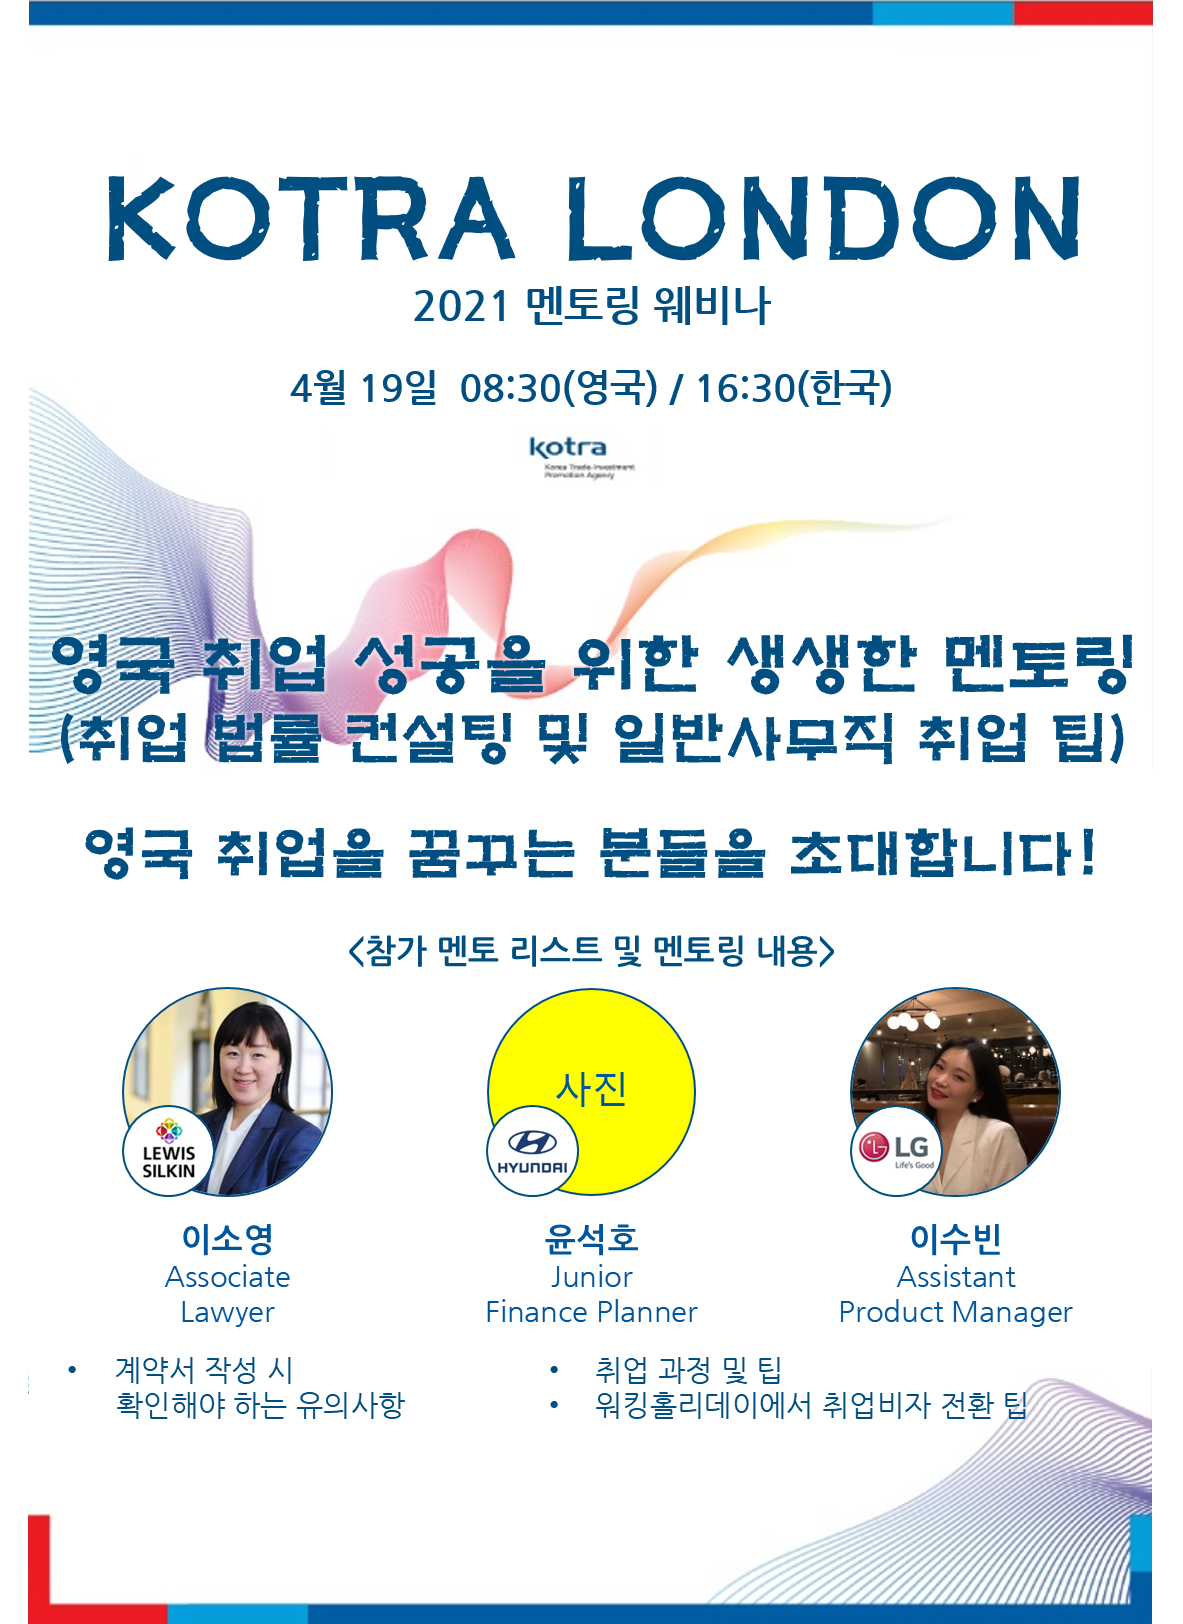
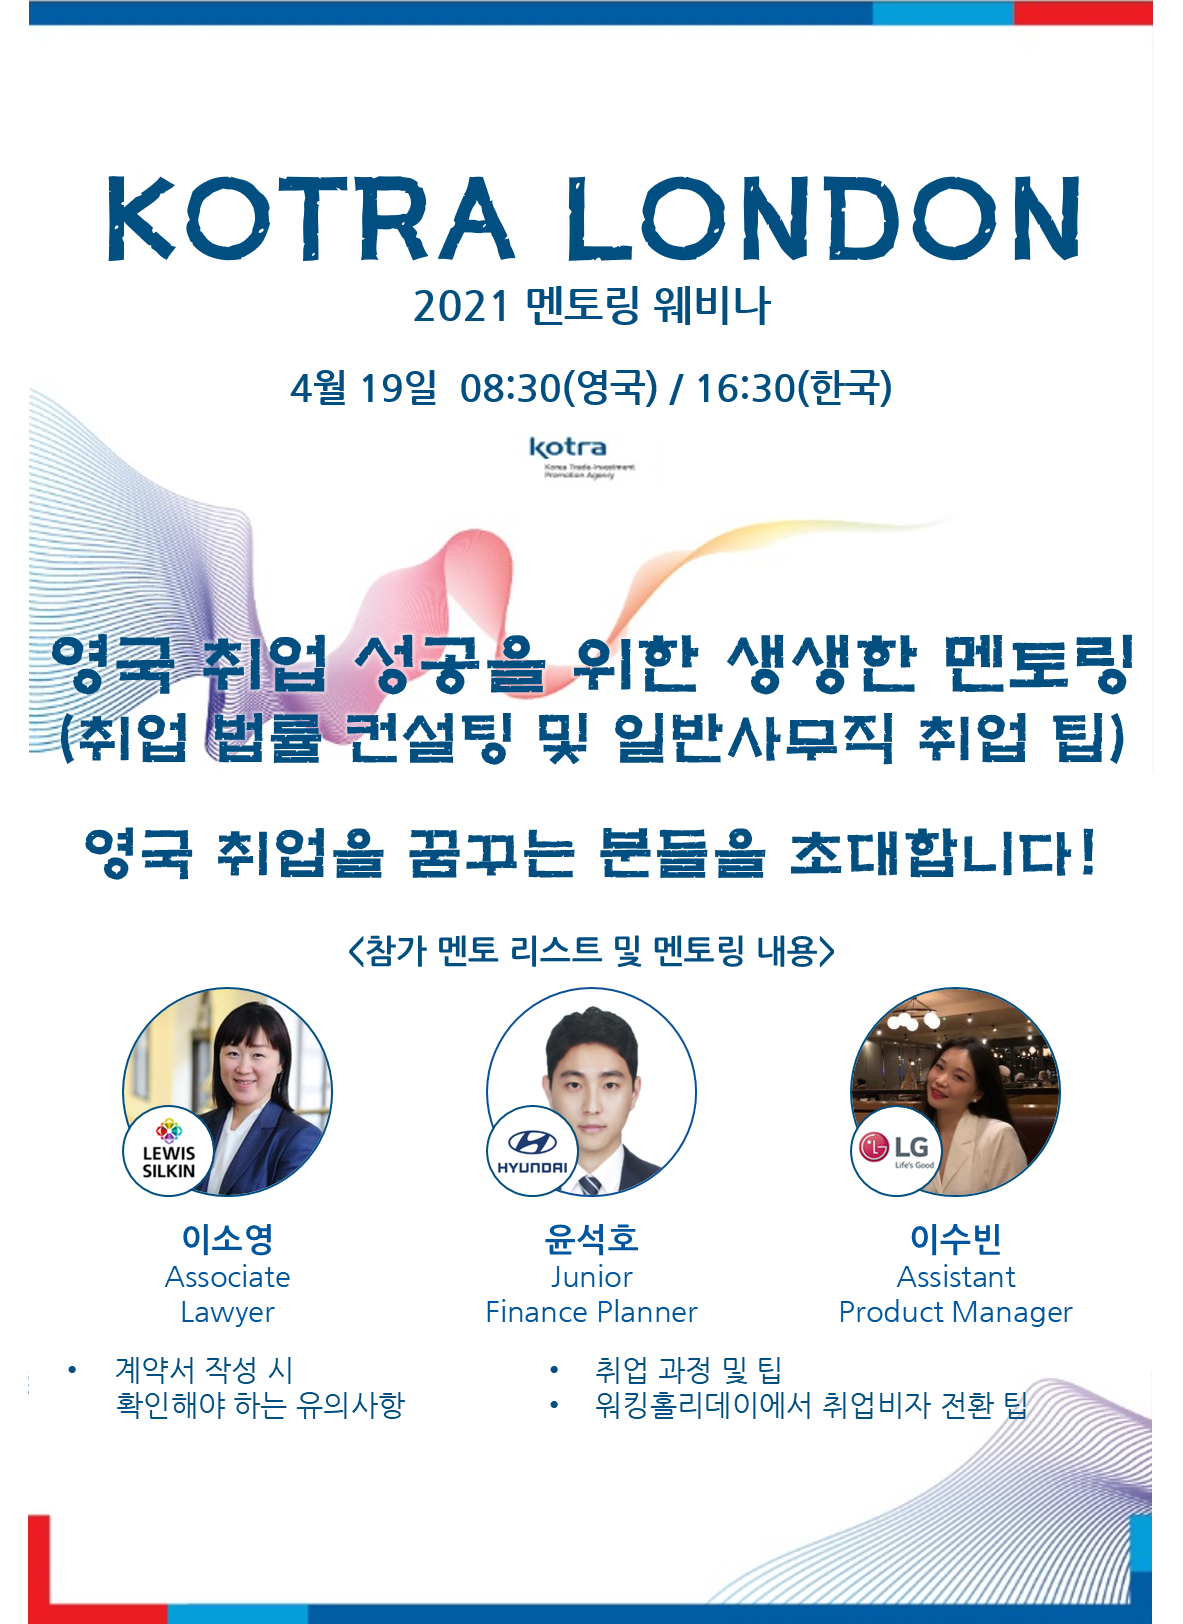
Photo updated

Changed region(s): [[0.3956, 0.585, 0.6086, 0.7389]]

diff --git a/index.html b/index.html
@@ -7,29 +7,35 @@
     <title>📝멘토링 웨비나 신청서</title>
     <style>
         body {
-            max-width: 500px;   // 휴대폰 screen 확인 필요
+            color: #0E4D92;
             display: block;
             margin: 0 auto;
+            max-width: 400px;   // 휴대폰 screen 확인 필요
             text-align: center;
-            color: #0E4D92;
         }
         img {
-            max-width: 500px;
+            max-width: 400px;
+            padding-top: 30px;
         }
         input {
-            margin: 0 auto;
+            border-radius: 15px;
             display: block;
+            margin: 0 auto;
             margin-bottom: 10px;
-            width: 450px;
+            padding: 5px;
             text-align: center;
+            width: 400px;
         }
-        button {
-            margin: 0 auto;
-            display: block;
-            margin-bottom: 30px;
-            width: 450px;
+        .submit {
             background-color: #0E4D92;
             color: white;
+            display: block;
+            margin: 0 auto;
+            margin-bottom: 30px;
+            width: 400px;
+        }
+        h3 {
+            text-align: center;
         }
         strong {
             color: red;
@@ -37,14 +43,15 @@
     </style>
 </head>
 <body>
-    <h1>참가 신청</h1>
     <img src="(런던무역관) 상반기 취업 멘토링사업.png"/>
-    <p>사전 참가신청 및 질문을 한 분들께 소정의 <strong>상품</strong>을 지급합니다</p>
-    <input type="search" placeholder="이름" autofocus="on">
-    <input type="search" placeholder="(*필수) 이메일" autofocus="on" class="important">
-    <input type="search" placeholder="이소영님에게 질문" autofocus="on">
-    <input type="search" placeholder="윤석호님에게 질문" autofocus="on">
-    <input type="search" placeholder="이수빈님에게 질문" autofocus="on">
-    <button>신청</button>
+    <h3>사전 참가신청 및 질문을 한 분들 중<br />추첨을 통해 소정의 <strong>상품</strong>을 지급합니다<h3>
+    <form action=”mailto:annacho@kotra.co.uk” method=”POST” enctype=”multipart/form-data” name=”EmailTestForm”>
+        <input type="search" placeholder="이름">
+        <input type="search" placeholder="(*필수) 이메일" class="important">
+        <input type="search" placeholder="이소영님에게 질문">
+        <input type="search" placeholder="윤석호님에게 질문">
+        <input type="search" placeholder="이수빈님에게 질문">
+        <input type="submit" value="참가 신청" class="submit">
+    </form>
 </body>
 </html>
